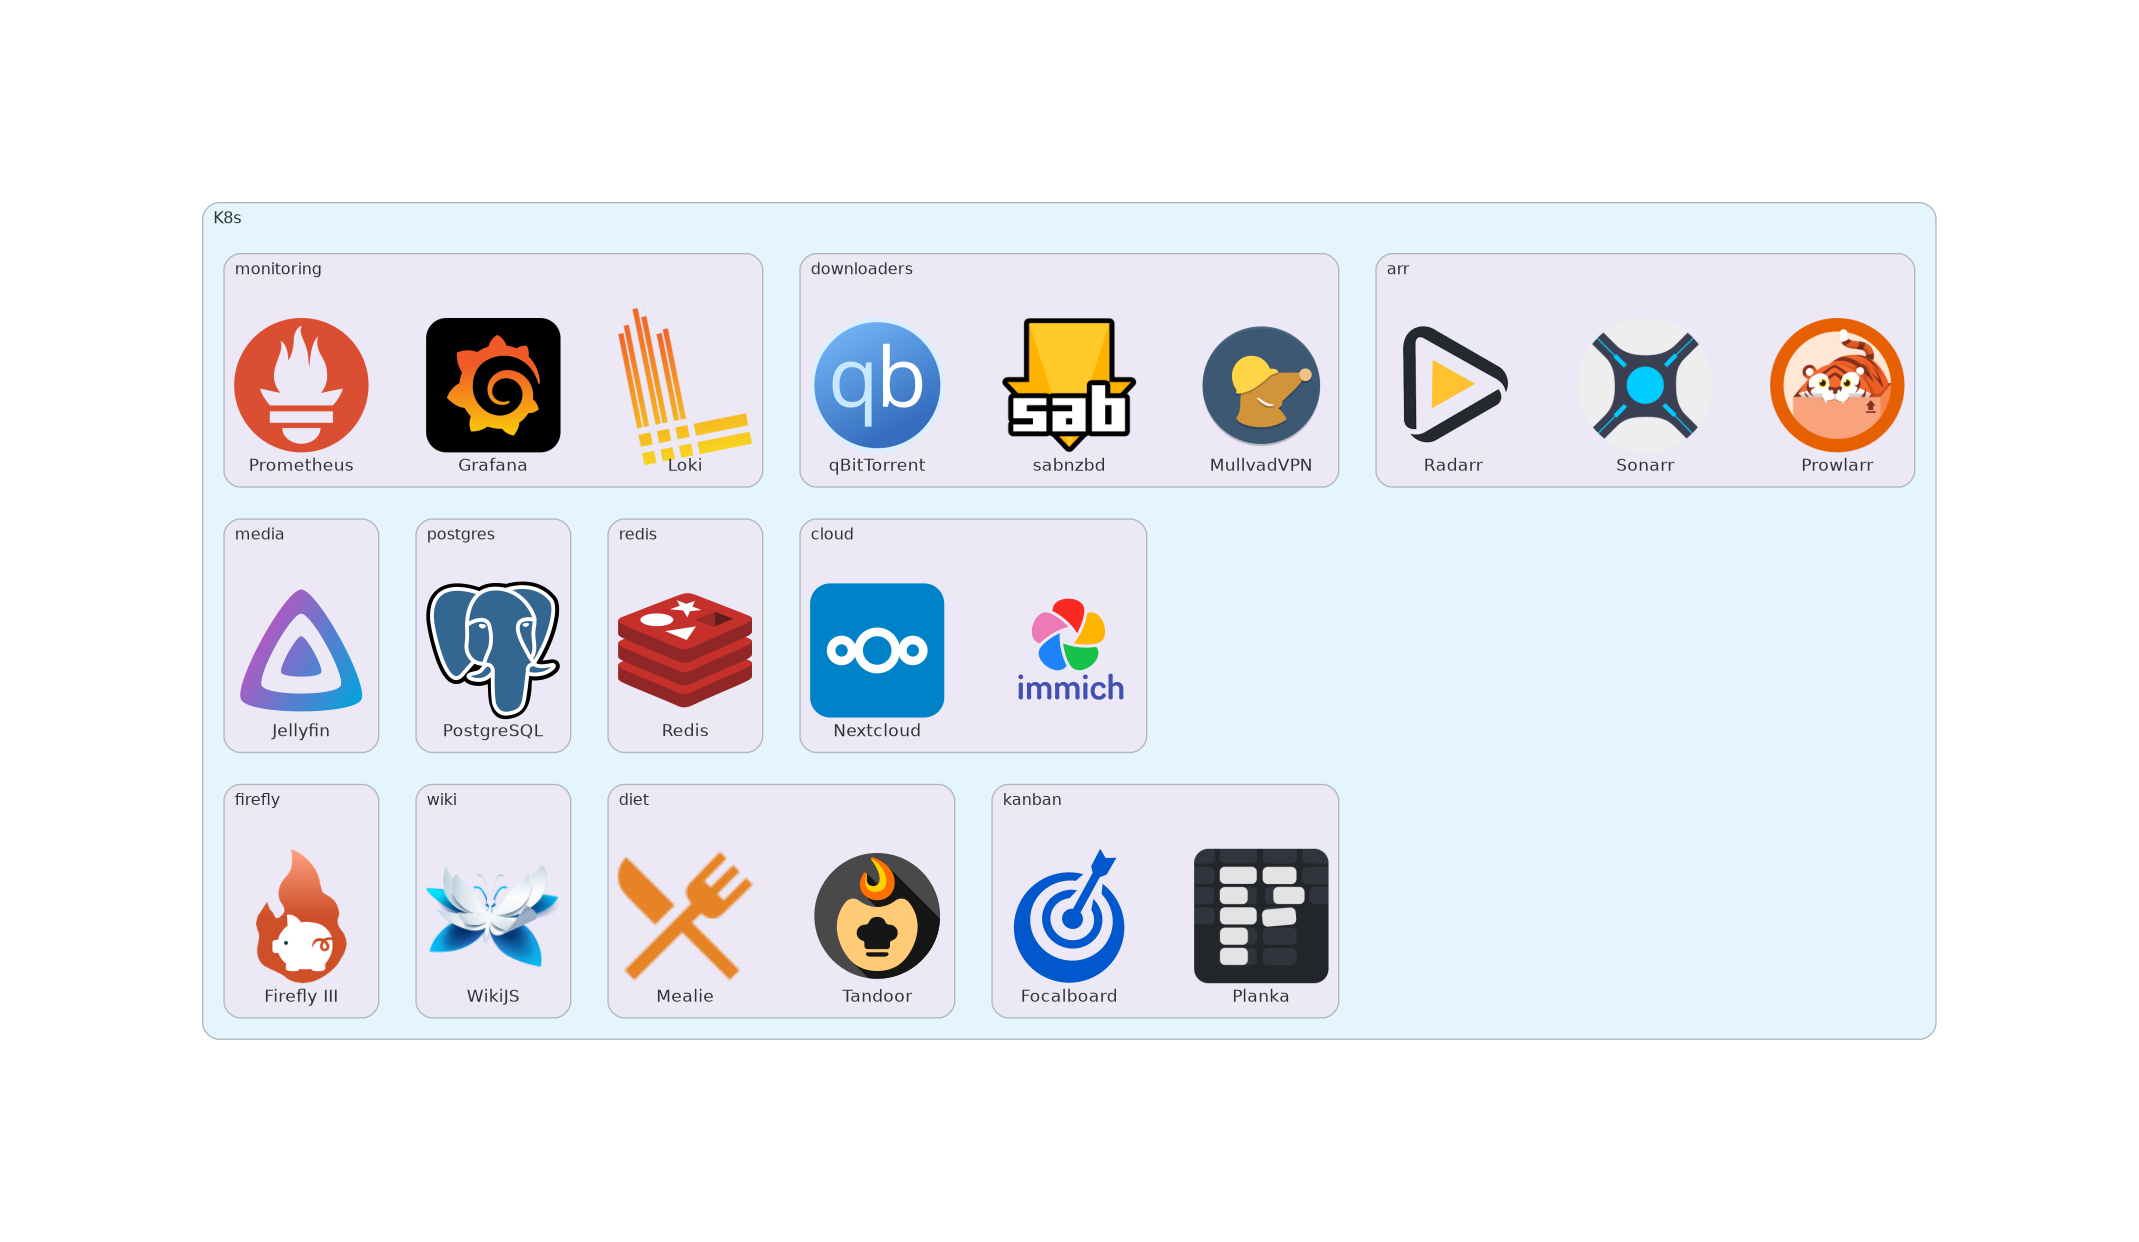
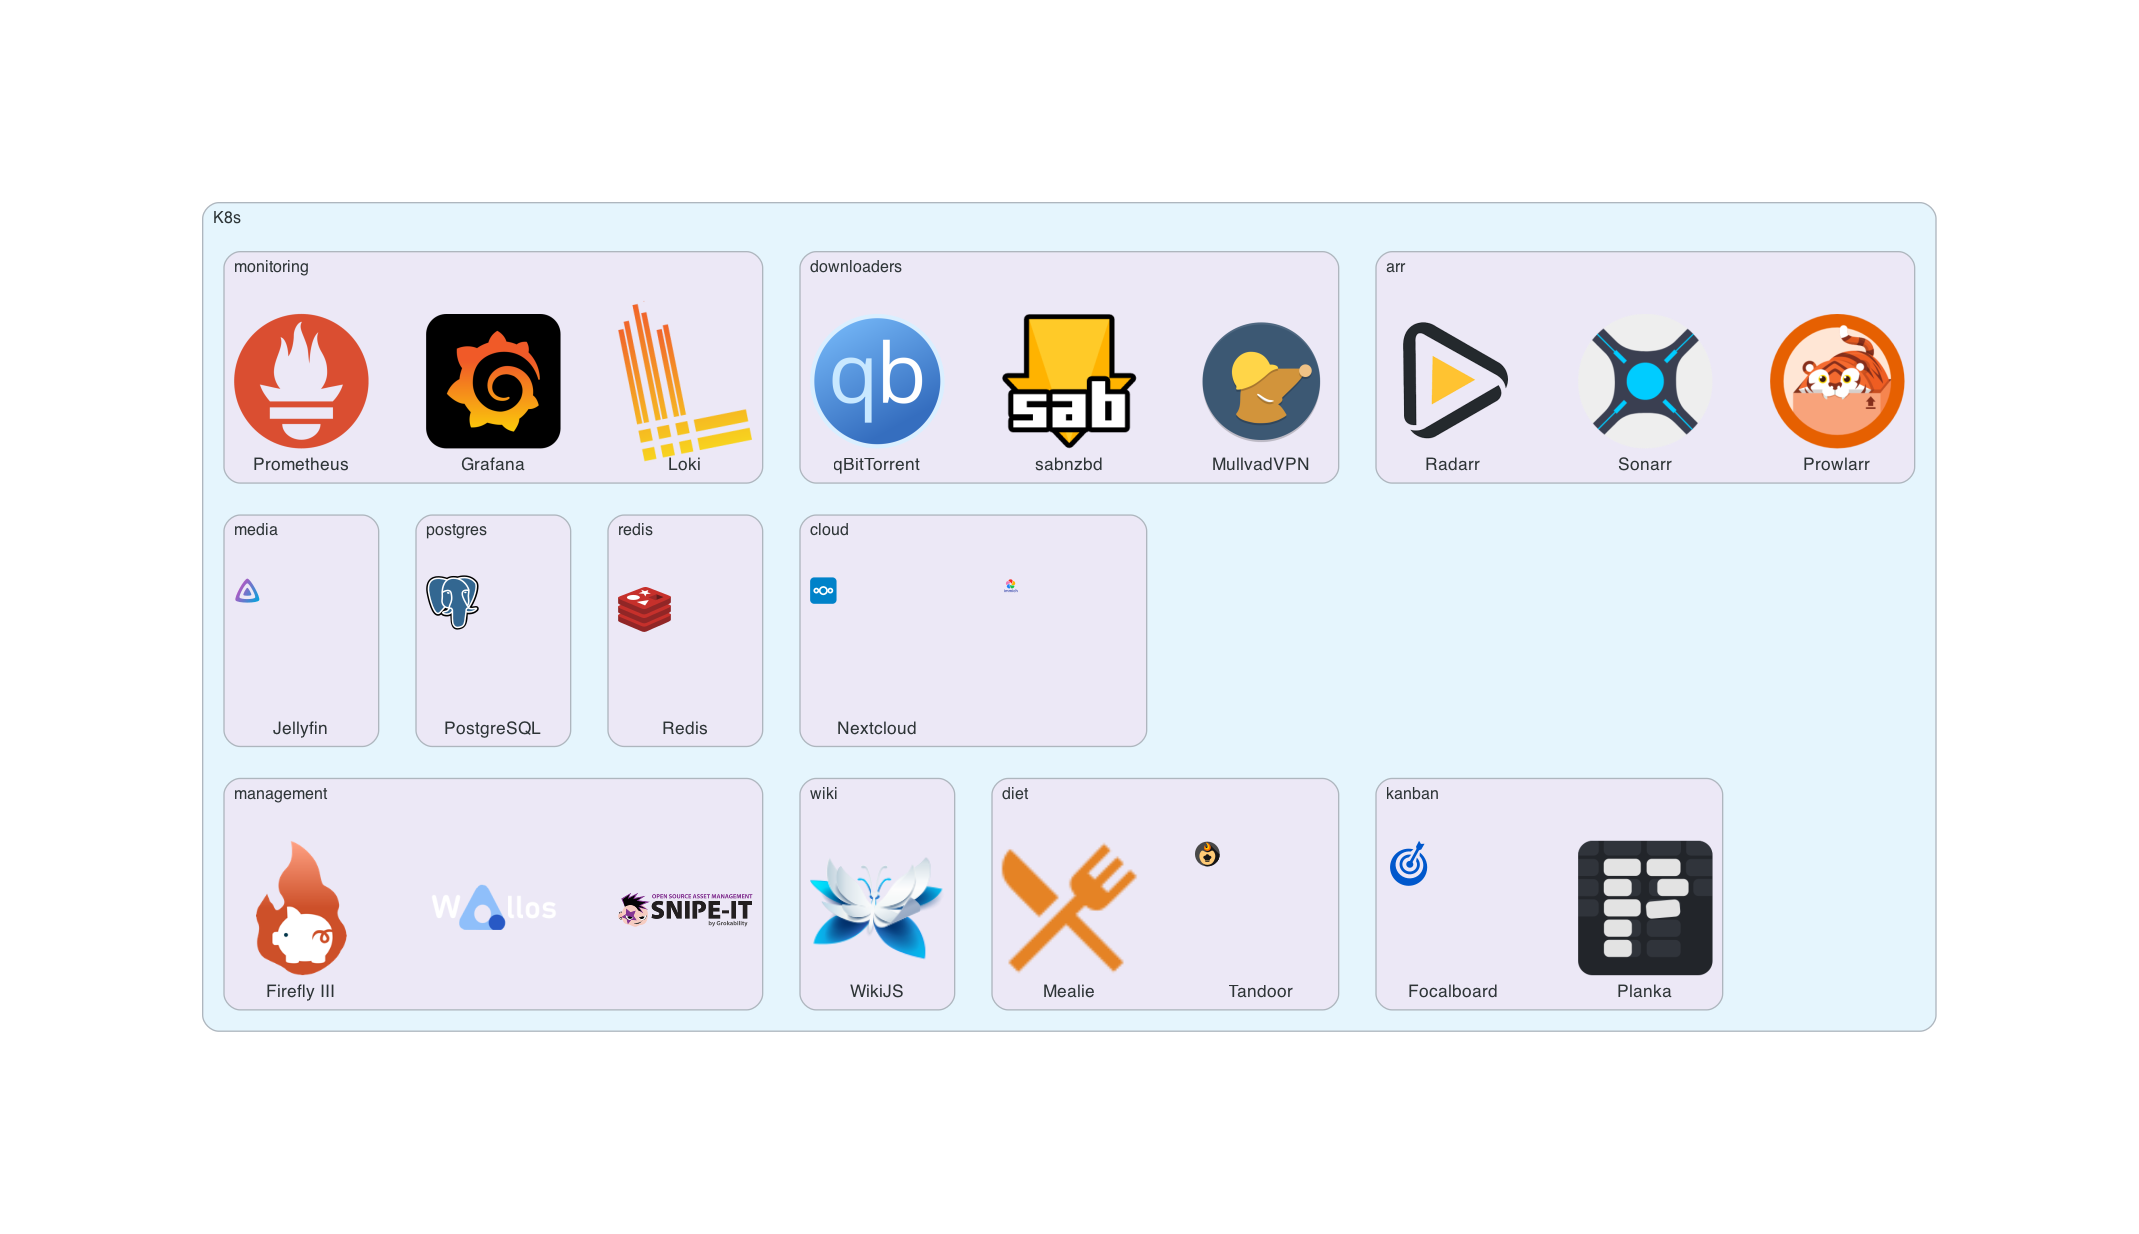
add snipe-it, need to rerun k8s.py

diff --git a/k8s.py b/k8s.py
@@ -53,10 +53,11 @@ with Diagram("", filename="k8s", show=False, graph_attr=graph_attr, direction="T
                 ]
 
         with Cluster("3", graph_attr={"label": "", "style": "invisible"}):
-            with Cluster("firefly"):
+            with Cluster("management"):
                 firefly = [
                     Custom("Firefly III", "./resources/fireflyiii.png"),
-                    #Custom("", "./resources/wallos.png")
+                    Custom("", "./resources/wallos.png"),
+                    Custom("", "./resources/snipe-it.png")
                 ]
 
             with Cluster("wiki"):
